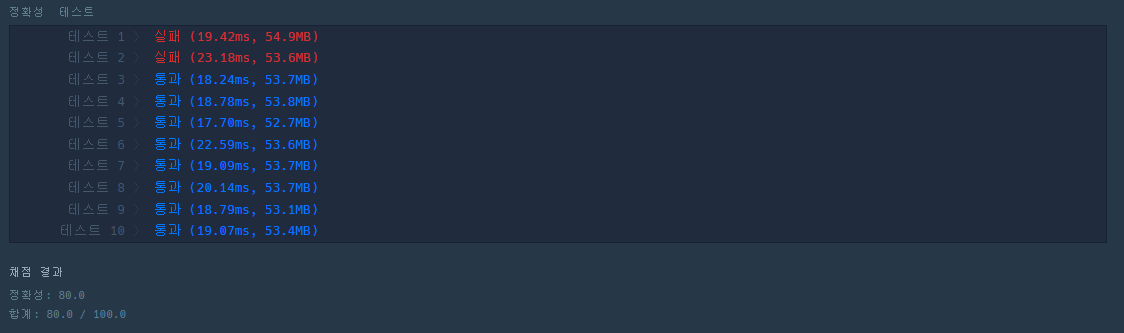
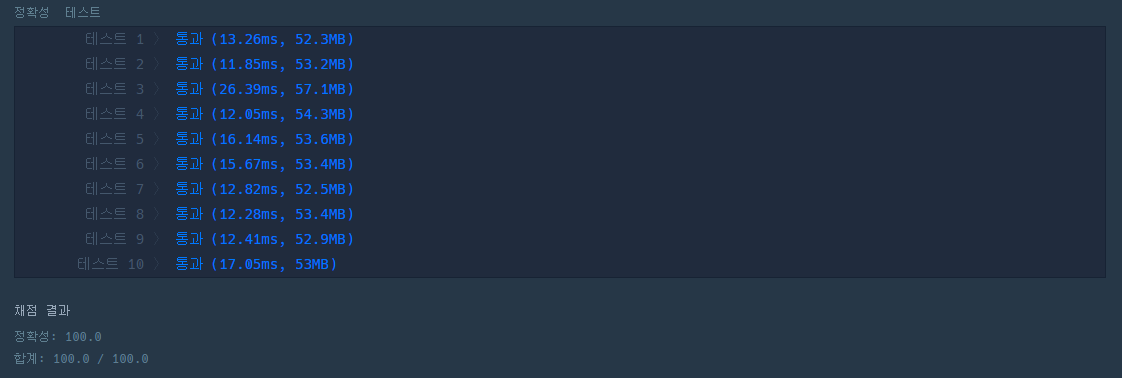
코딩테스트 3진법

diff --git a/_posts/codingtest_programmers/2021-07-07-level1-ternary.md b/_posts/codingtest_programmers/2021-07-07-level1-ternary.md
@@ -21,14 +21,7 @@ class Solution {
         //입력값 3진법 변환
         int mok = 0;
         int re = 0;
-        Stack<Integer> stack = new Stack<Integer>();
-        while(3 <= n){
-            mok = Math.round(n / 3);
-            re = n % 3 ;
-            n = mok;
-            stack.push(re);
-        }
-        stack.push(mok);
+        
         
         //역순 만들기
         int[] answerarr = new int[stack.size()];
@@ -68,6 +61,11 @@ class Solution {
 List 로 다시변경하였다. 테스트케이스를 증가시켜 테스트를하였다.
 사실 오늘 퇴사와 프리랜서얘기가 오고가며 정신이 사나워 더이상 코딩이 안되었다..
 
+다시시도.
+코드를 갈아엎었다.
+문제 유도방법대로 명시적인 코드를 작성했었으나
+역순뒤집기를 그냥 빼버리고, 간단한 코드로 바꿔버렸다.
+
 
 ```java
 import java.util.*;
@@ -76,29 +74,28 @@ class Solution {
         int answer = 0;
         
         //입력값 3진법 변환
-        int mok = 0;
         int re = 0;
-        Stack<Integer> stack = new Stack<Integer>();
-        while(3 <= n){
-            mok = Math.round(n / 3);
+        String str = "";
+        while(n != 0){
             re = n % 3 ;
-            n = mok;
-            stack.push(re);
+            str += re;
+            n /= 3;
         }
-        stack.push(mok);
-        
-        //역순 만들기
-        int[] answerarr = new int[stack.size()];
-        int cnt = 0;
-        while(stack.size() > 0){
-            int num = stack.pop();
-            answerarr[cnt] = num;
-            cnt++;
-        }
-        
+
         //10진수 변환
-        for(int i = answerarr.length-1; i >= 0; i--){
-            answer += answerarr[i] * (Math.pow(3, i));
+        String[] arr = str.split("");
+        
+        //결과
+        if(!str.equals("") && arr.length < 2) {
+            answer = Integer.parseInt(str);
+            return answer;
+        }
+        
+        int num = 0;
+        for(int i = arr.length-1; i >= 0; i--){
+            if(arr[i].equals("")) continue;
+            answer += Integer.parseInt(arr[i]) * (Math.pow(3, num));
+            num++;
         }
         
         return answer;
@@ -116,7 +113,7 @@ class Solution {
 
 ### 생각
 
-- 와 잘짰다. 내가 생각해도 stack도 쓰고, 깔끔한거같다. 싶었다. 통과인줄알았다. 1,2 실패
+- 테스트케이스를 0~10 까지늘려 테스트를 했었는데, 1과 2의 테스트 케이스 기대값을 잘못넣어 헤딩 했다.
 
 
 ## 첨삭
@@ -124,31 +121,18 @@ class Solution {
 like 가 많고, 요구사항과 코딩이 가시적으로 한번에 구분되는 코드.
 
 ```java
-import java.util.Stack;
-
 class Solution {
-    public int solution(int[][] board, int[] moves) {
-        int answer = 0;
-        Stack<Integer> stack = new Stack<>();
-        for (int move : moves) {
-            for (int j = 0; j < board.length; j++) {
-                if (board[j][move - 1] != 0) {
-                    if (stack.isEmpty()) {
-                        stack.push(board[j][move - 1]);
-                        board[j][move - 1] = 0;
-                        break;
-                    }
-                    if (board[j][move - 1] == stack.peek()) {
-                        stack.pop();
-                        answer += 2;
-                    } else
-                        stack.push(board[j][move - 1]);
-                    board[j][move - 1] = 0;
-                    break;
-                }
-            }
+    public int solution(int n) {
+        String a = "";
+
+        while(n > 0){
+            a = (n % 3) + a;
+            n /= 3;
         }
-        return answer;
+        a = new StringBuilder(a).reverse().toString();
+
+
+        return Integer.parseInt(a,3);
     }
 }
 ```
@@ -157,11 +141,8 @@ class Solution {
 
 
 ### 검토
-- stack 을 이용한 처리
+- Integer.parseInt 를 잘 알고 있는지. 간단한 reverse 함수를 쓸 수 있는지.
 
 
 ### 생각
-
-- stack 을 이용한 처리를 해본적이없어서 조금 오래 보았다.
-- 편한 List 만 쓸것이아니라 이런 형식의 알고리즘? 에서는 stack 을 써봐야겠다.
-- 결과치대체로 스택을 이용한 문구가 빨랐다.
+- Integer.parseInt 를 많이 쓰긴하지만. int 형으로 변환한다는 생각만 있었지, 10진법 수로 변환한다는 내부적인 코드를 보진 않았었다. ```parseInt(String s, int radix)``` radix 라는 변수를 받아서 해당 진수로 변환까지 해준다.
